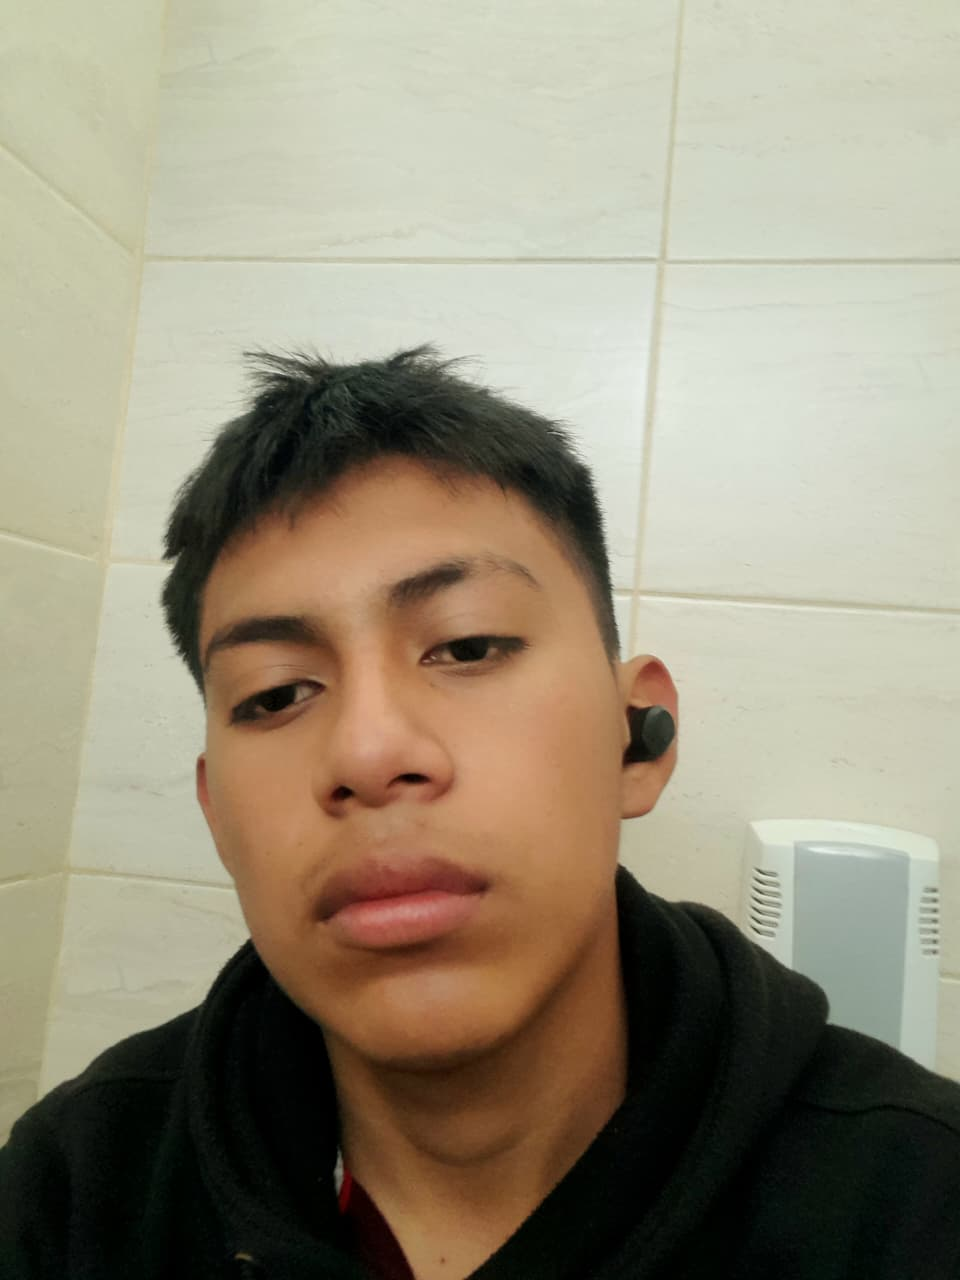
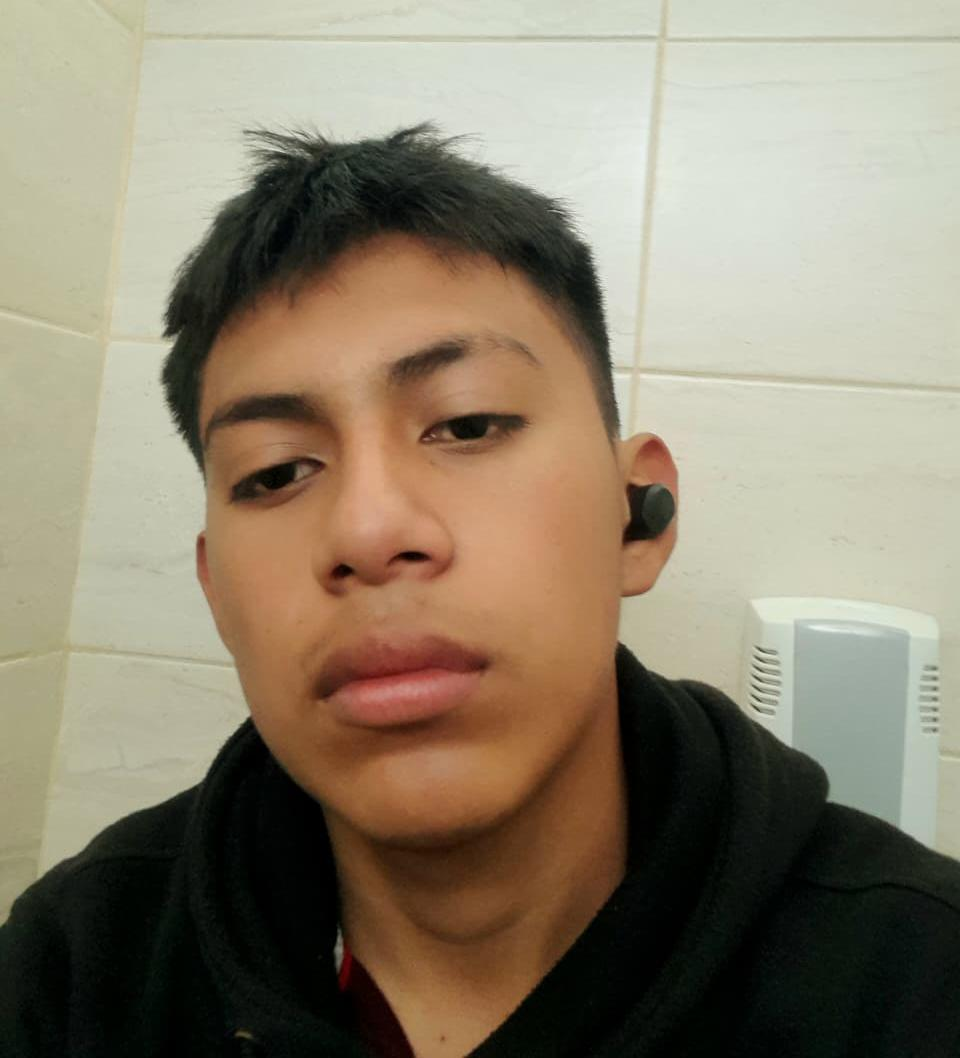
se agrego fotos de los integrantes

diff --git a/estilos.css b/estilos.css
@@ -109,10 +109,17 @@ table .td7{
      text-align: center;
      line-height: 1.6;
 }
+.Ganador-card img{
+    width: 180px ;
+    height: 20vh;
+    margin: 0 auto;
+    border-radius: 10px;
+    display: block;
+}
 
 .Ganador-card{
   width: 350px;
-  height: 50vh;
+  height: 75vh;
   border: 2px solid rgb(171, 173, 41);
   border-radius: 15px;
   padding: 17px;
@@ -145,39 +152,12 @@ table .td7{
     margin: 0 auto;
 }
 
-.contenedor div{
+.contenedorinte div{
     width: 200px;
     height: 200px;
     border-radius: 50%;
     outline: 2px solid white;
 }
-
-.contenedor .caja1{
-    background-color:#E03C31;
-}
-
-.contenedor .caja2{
-    background-color: rgb(223, 200, 97);
-    display: flex;
-    gap: 10px;
-}
-
-.contenedor .caja3{
-    background-color:#007A33;
-}
-
-.contenedor .caja4{
-    background-color: #FDB913;
-}
-
-.contenedor .caja5{
-    background-color: #81c540;
-}
-
-.contenedor .caja6{
-    background-color: rgb(214, 170, 134);
-}
-
 .contenedorinte img{
     width: 100%;
     height: 100%;
@@ -185,5 +165,31 @@ table .td7{
     display: block;
     margin: auto;
 }
+
+.contenedorinte .caja1 img{
+    border-radius: 50%;
+}
+
+.contenedorinte .caja2 img{
+    border-radius: 50%;
+}
+
+.contenedorinte .caja3 img{
+    border-radius: 50%;
+}
+
+.contenedorinte .caja4 img{
+    border-radius: 50%;
+}
+
+.contenedorinte .caja5 img{
+    border-radius: 50%;
+}
+
+.contenedorinte .caja6 img{
+    border-radius: 50%;
+}
+
+
 
 

diff --git a/index.html b/index.html
@@ -21,6 +21,7 @@
             <div class="Ganador-card">
                 <h3 class="Lugar">🥈2</h3>
                 <h3 class="NL">NL</h3>
+                <img src="Bajos.jpg" alt="Bajos">
                 <h4 class="PAÍSES">PAÍSES BAJOS</h4>
                 <P class="Goles">8G•15 goles anotados</P>
             </div>
@@ -28,6 +29,7 @@
            <div class="Ganador-card">
                 <h3 class="Lugar">🏆1</h3>
                 <h3 class="NL">ES</h3>
+                <img src="España.jpeg" alt="España">
                 <h4 class="PAÍSES">ESPAÑA</h4>
                 <P class="Goles">7G•8 goles anotados</P>
            </div>
@@ -35,6 +37,7 @@
            <div class="Ganador-card">
                 <h3 class="Lugar">🥉3</h3>
                 <h3 class="NL">DE</h3>
+                <img src="Alemania.jpeg" alt="Alemania">
                 <h4 class="PAÍSES">ALEMANIA</h4>
                 <P class="Goles">7G•16 goles anotados</P>
            </div>
@@ -115,7 +118,7 @@
     </table>
     </div>
 
-        <h2 class="Desarrolladores">Desarrolladores</h2>
+        <h2 id="Desarrolladores">Desarrolladores</h2>
         <br>
        <div class="contenedorinte">
          <div class="caja1"><img src="Enrique.jpeg.jpg" alt="Enrique">
